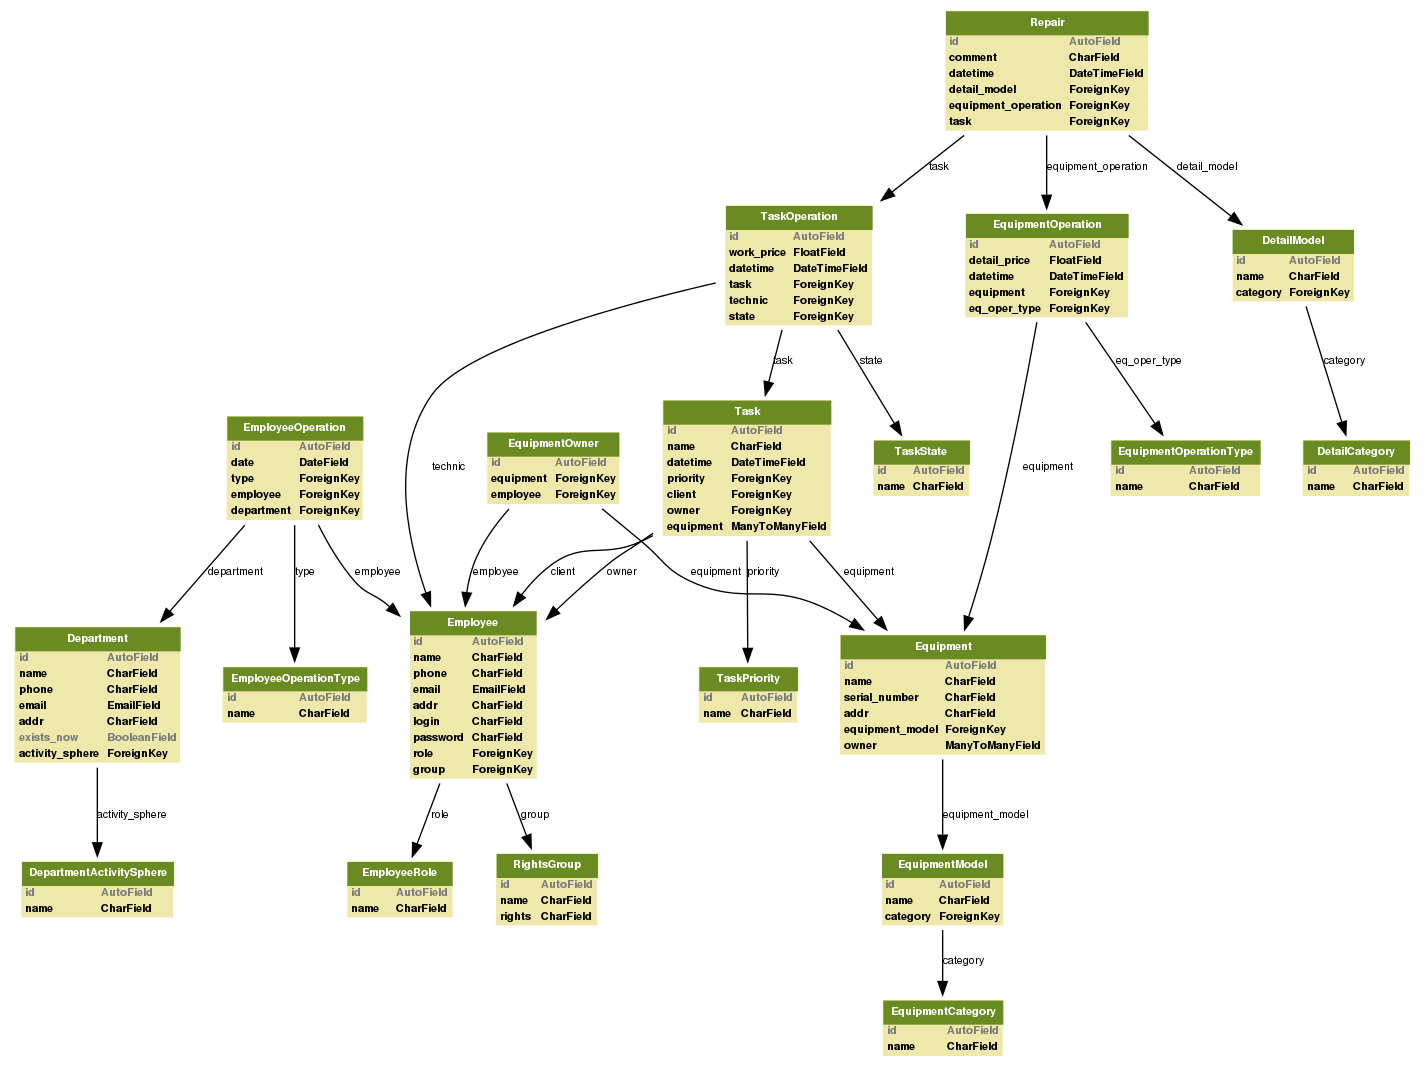
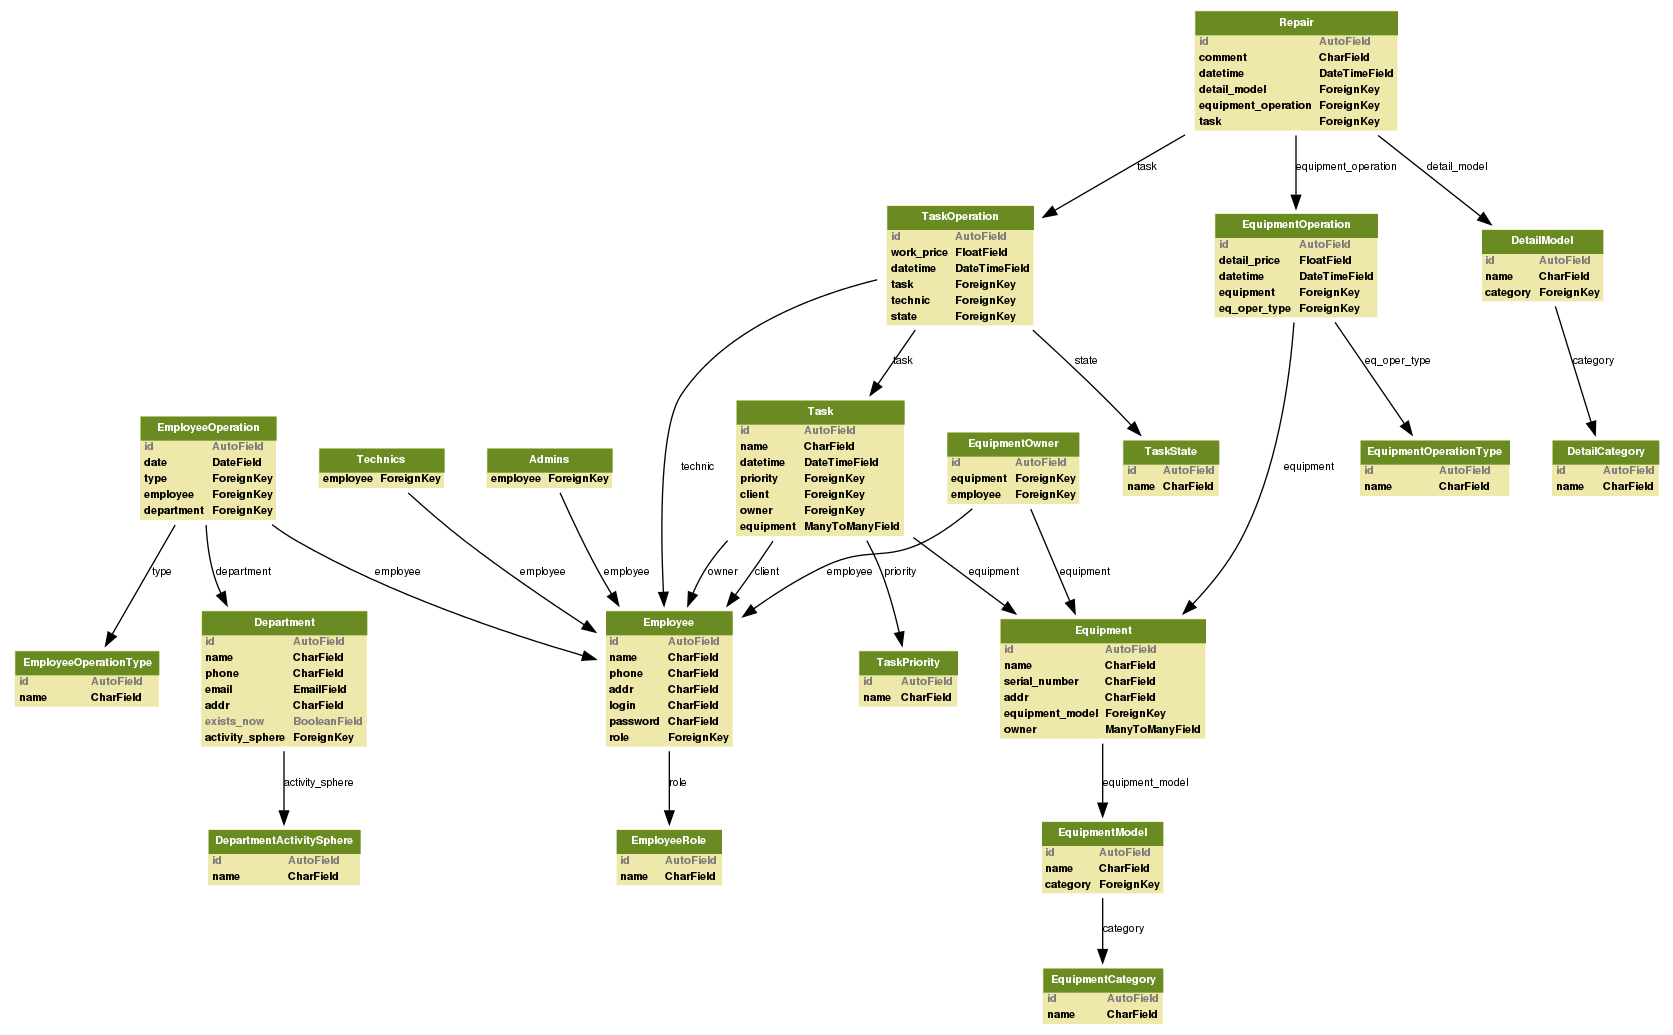
add: new models --- 'Admins' and 'Technics', new er-diagramms

Changed region(s): [[0.0, 0.0, 1.0, 0.9894]]

diff --git a/techsup_run/models/__init__.py b/techsup_run/models/__init__.py
@@ -1,25 +1,27 @@
-import DepartmentActivitySphere # --.                                    | f
-import Department               # <-'            --.                     |
-import DetailCategory           # --.              |                     |
-import DetailModel              # <-'              |  --.                |
-import EmployeeRole             # --.              |    |                | f
-import RightsGroup              #   |  --.         |    |                | f
-import Employee                 # <-'  <-'  --.    |    |                |
-import EmployeeOperationType    # --.         |    |    |                | f
-import EmployeeOperation        # <-'       <-'  <-'    |  --.           |
-import EquipmentCategory        #      --.              |    |           |
-import EquipmentModel           # --.  <-'              |    |           |
-import Equipment                # <-'  --.              |    |           |
-import EquipmentOperationType   # --.    |              |    |           | f
-import EquipmentOperation       # <-'  <-'       --.    |    |           |
-import EquipmentOwner           #                  |    |    |           |
-import TaskPriority             #           --.    |    |    |           | f
-import Task                     # --.  --.  <-'    |    |    |           |
-import Repair                   # <-'    |       <-'  <-'    |           |
-import TaskState                # --.    |                   |           | f
-import TaskOperation            # <-'  <-'                 <-'           |
+import Admins                   #                                    --.      |
+import DepartmentActivitySphere # --.                                  |      | f
+import Department               # <-'                 --.              |      |
+import DetailCategory           # --.                   |              |      |
+import DetailModel              # <-'                   |  --.         |      |
+import EmployeeRole             # --.                   |    |         |      | f
+import Employee                 # <-'       --.  --.    |    |  --.  <-' <-.  |
+import EmployeeOperationType    # --.         |    |    |    |    |        |  | f
+import EmployeeOperation        # <-'       <-'    |  <-'    |    |        |  |
+import EquipmentCategory        #      --.         |         |    |        |  |
+import EquipmentModel           # --.  <-'         |         |    |        |  |
+import Equipment                # <-'  --.         |         |    |        |  |
+import EquipmentOperationType   # --.    |         |         |    |        |  | f
+import EquipmentOperation       # <-'  <-'         |  --.    |    |        |  |
+import EquipmentOwner           #                  |    |    |    |        |  |
+import TaskPriority             #           --.    |    |    |    |        |  | f
+import Task                     # --.  --.  <-'  <-'    |    |    |        |  |
+import Repair                   # <-'    |  <-.       <-'  <-'    |        |  |
+import TaskState                # --.    |    |                   |        |  | f
+import TaskOperation            # <-'  <-'  --'                 <-'        |  |
+import Technics                 #                                        --'  |
 
-all_models = [Department.Department,
+all_models = [Admins.Admins,
+              Department.Department,
               DepartmentActivitySphere.DepartmentActivitySphere,
               DetailCategory.DetailCategory,
               DetailModel.DetailModel,
@@ -34,8 +36,8 @@ all_models = [Department.Department,
               EquipmentOperationType.EquipmentOperationType,
               EquipmentOwner.EquipmentOwner,
               Repair.Repair,
-              RightsGroup.RightsGroup,
               Task.Task,
               TaskOperation.TaskOperation,
               TaskPriority.TaskPriority,
-              TaskState.TaskState]
+              TaskState.TaskState,
+              Technics.Technics]

diff --git a/techsup_run/models/Admins.py b/techsup_run/models/Admins.py
@@ -1,0 +1,12 @@
+# -*- coding: utf-8 -*-
+
+from django.db import models
+
+# Администратор
+class Admins(models.Model):
+    employee = models.ForeignKey('Employee', primary_key=True)
+    
+    class Meta:
+        app_label = 'techsup_run'
+        db_table = 'admins'
+    

diff --git a/techsup_run/models/Technics.py b/techsup_run/models/Technics.py
@@ -1,0 +1,12 @@
+# -*- coding: utf-8 -*-
+
+from django.db import models
+
+# Техник
+class Technics(models.Model):
+    employee = models.ForeignKey('Employee', primary_key=True)
+    
+    class Meta:
+        app_label = 'techsup_run'
+        db_table = 'technics'
+    
